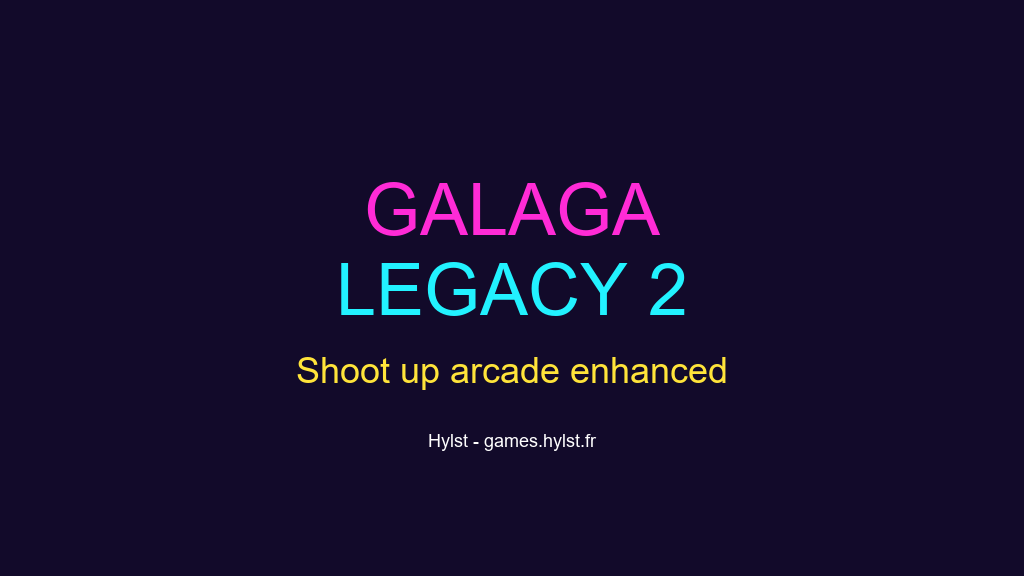
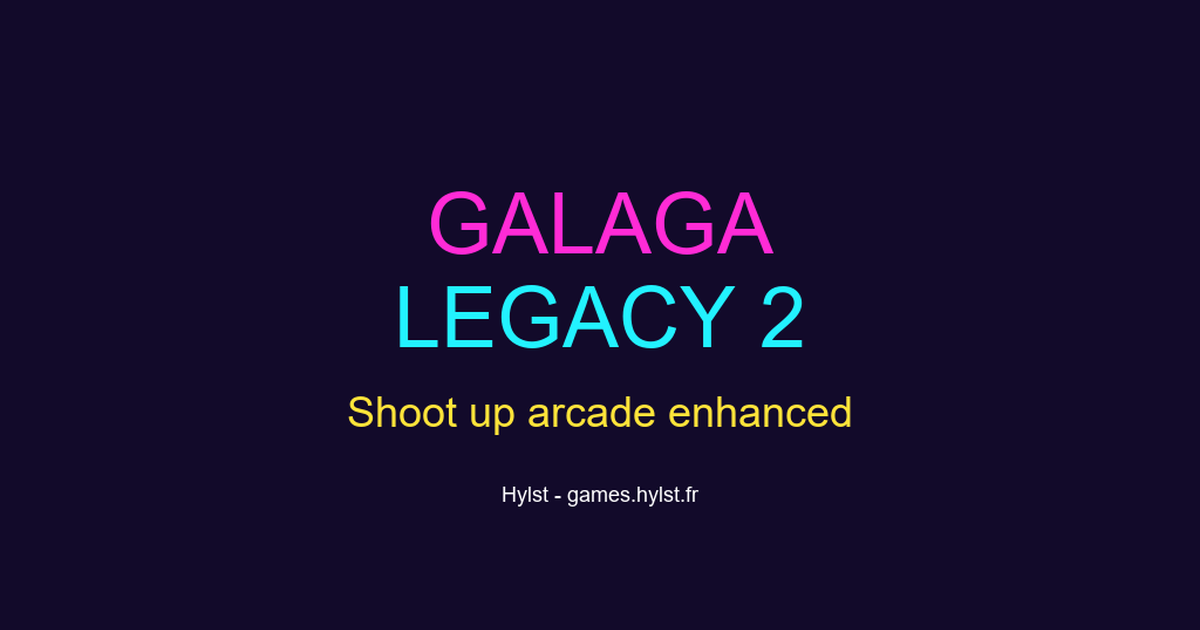
Open Graph : image 1200 x 630 et metadonnees completes

diff --git a/index.html b/index.html
@@ -11,14 +11,16 @@
     <meta property="og:url" content="https://games.hylst.fr/galagalegacy2/" />
     <meta property="og:title" content="L'Héritage de Galaga : shoot'em up arcade enrichi" />
     <meta property="og:description" content="Affrontez des vagues d'ennemis, débloquez des power-ups et battez des records dans ce Galaga revisité aux couleurs neon." />
-    <meta property="og:image" content="https://games.hylst.fr/galagalegacy2/og-image.png" />
-    <meta property="og:image:width" content="768" />
-    <meta property="og:image:height" content="432" />
+    <meta property="og:image" content="https://games.hylst.fr/galagalegacy2/og-image.png?v=2" />
+    <meta property="og:image:type" content="image/png" />
+    <meta property="og:image:alt" content="L'Héritage de Galaga" />
+    <meta property="og:image:width" content="1200" />
+    <meta property="og:image:height" content="630" />
     <meta name="twitter:card" content="summary_large_image" />
     <meta name="twitter:url" content="https://games.hylst.fr/galagalegacy2/" />
     <meta name="twitter:title" content="L'Héritage de Galaga : shoot'em up arcade enrichi" />
     <meta name="twitter:description" content="Affrontez des vagues d'ennemis, débloquez des power-ups et battez des records dans ce Galaga revisité aux couleurs neon." />
-    <meta name="twitter:image" content="https://games.hylst.fr/galagalegacy2/og-image.png" />
+    <meta name="twitter:image" content="https://games.hylst.fr/galagalegacy2/og-image.png?v=2" />
   </head>
   <body>
     <div id="root"></div>
